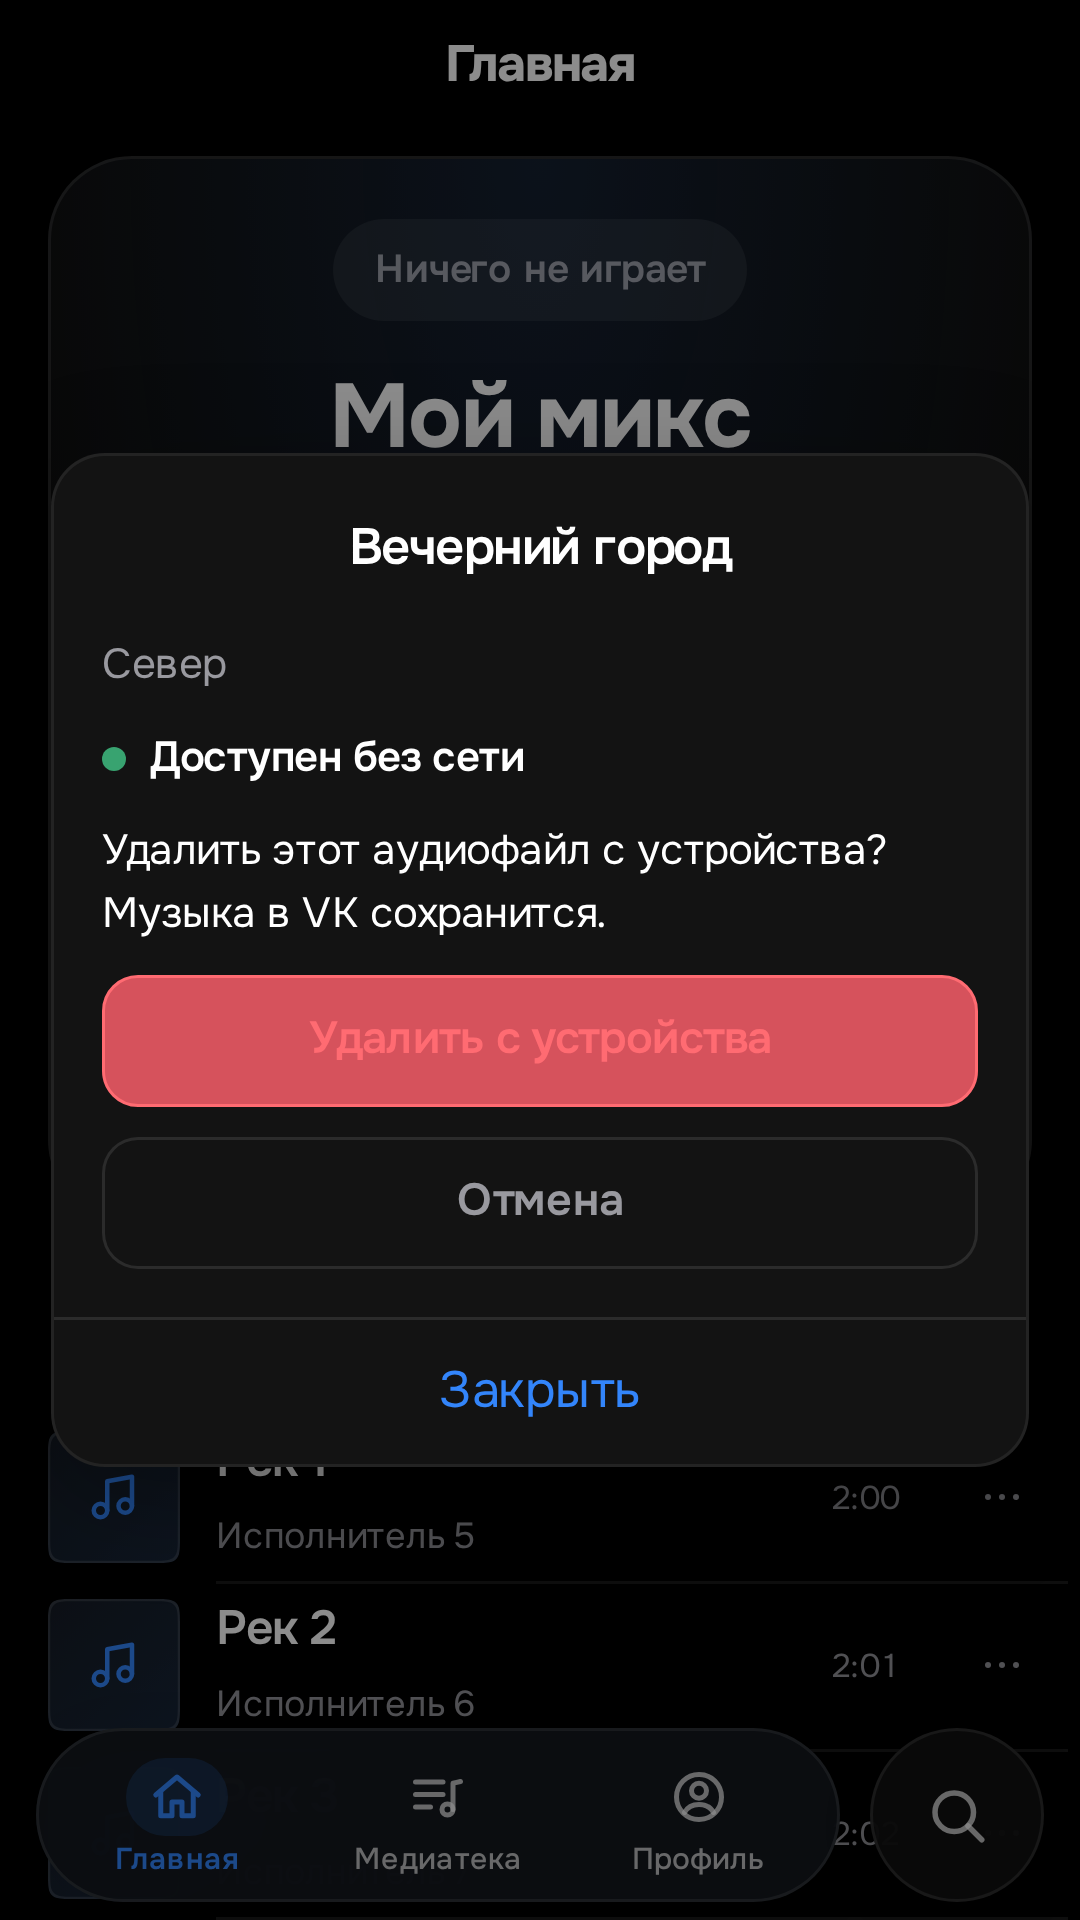
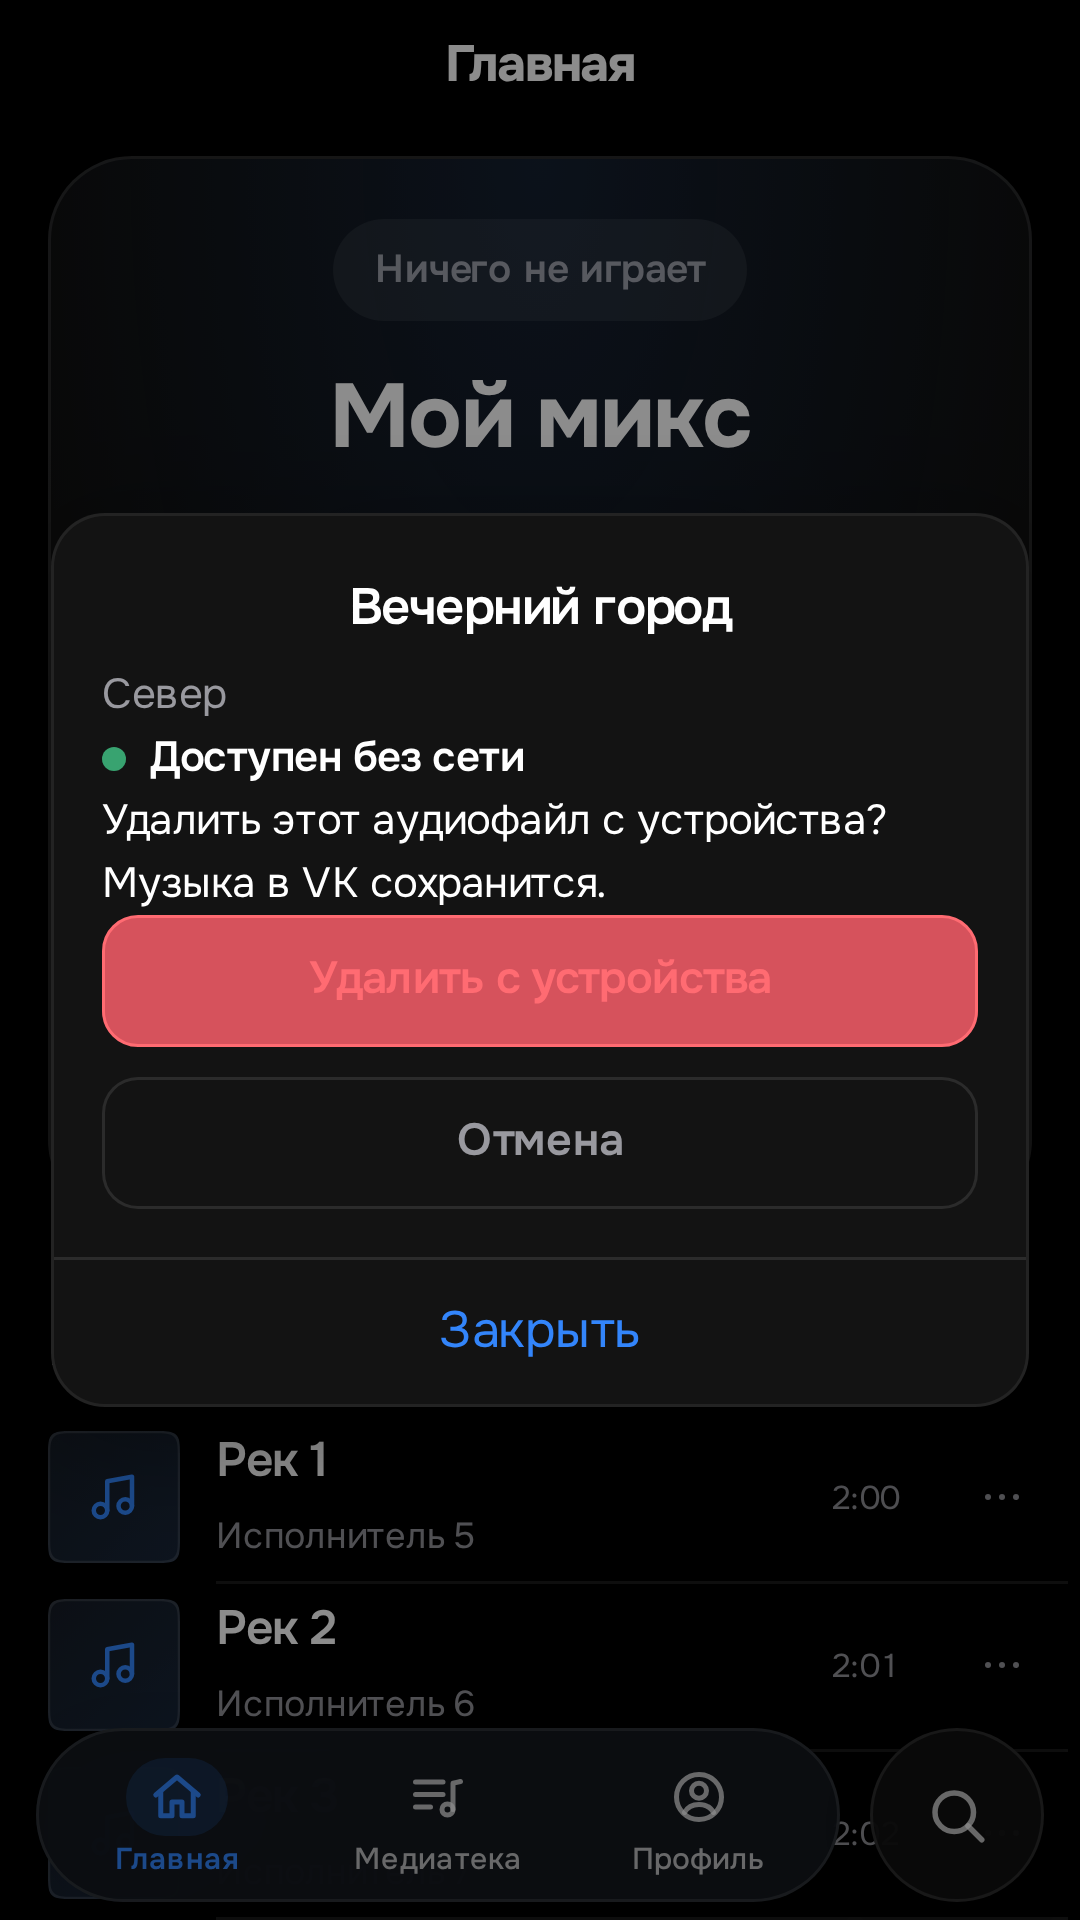
Android: хранить скачанную копию отдельно от синхронизации плейлистов

diff --git a/ui/js/download-details.js b/ui/js/download-details.js
@@ -1,11 +1,12 @@
 import { api, trackKey } from './api.js';
 import { h, formatTime } from './dom.js';
 import { t, addStrings, errorText } from './i18n.js';
-import { accountId } from './personal.js';
+import { syncRunning } from './playlist-sync.js';
+import { accountId, readPersonal, writePersonal } from './personal.js';
 import { store, own, subscribe } from './store.js';
 import { formatSize, refreshDownloads } from './downloads.js';
 import { isAndroid } from './mobile/layout.js';
-addStrings({ru:{'file.details':'Об аудиофайле','file.available':'Доступен без сети','file.missing':'Файл недоступен. Его можно скачать заново из списка треков.','file.format':'Формат','file.size':'Размер','file.saved':'Сохранён','file.duration':'Длительность','file.close':'Закрыть','file.remove':'Удалить с устройства','file.confirm':'Удалить этот аудиофайл с устройства? Музыка в VK сохранится.','file.removed':'Файл удалён с устройства','file.cancel':'Отмена'},en:{'file.details':'Audio file details','file.available':'Available offline','file.missing':'The file is unavailable. You can download it again from the track list.','file.format':'Format','file.size':'Size','file.saved':'Saved','file.duration':'Duration','file.close':'Close','file.remove':'Remove from device','file.confirm':'Remove this audio file from the device? Your VK library will be kept.','file.removed':'File removed from device','file.cancel':'Cancel'}});
+addStrings({ru:{'file.details':'Об аудиофайле','file.available':'Доступен без сети','file.missing':'Файл недоступен. Его можно скачать заново из списка треков.','file.format':'Формат','file.size':'Размер','file.saved':'Сохранён','file.duration':'Длительность','file.close':'Закрыть','file.remove':'Удалить с устройства','file.confirm':'Удалить этот аудиофайл с устройства? Музыка в VK сохранится.','file.removed':'Файл удалён с устройства','file.cancel':'Отмена','file.keep':'Хранить отдельно','file.kept':'Файл сохранён отдельно от плейлистов','file.storage':'Хранение','file.manual':'Сохранён отдельно','file.local':'На устройстве','file.syncBusy':'Дождитесь завершения синхронизации'},en:{'file.details':'Audio file details','file.available':'Available offline','file.missing':'The file is unavailable. You can download it again from the track list.','file.format':'Format','file.size':'Size','file.saved':'Saved','file.duration':'Duration','file.close':'Close','file.remove':'Remove from device','file.confirm':'Remove this audio file from the device? Your VK library will be kept.','file.removed':'File removed from device','file.cancel':'Cancel','file.keep':'Keep separately','file.kept':'File kept separately from playlists','file.storage':'Storage','file.manual':'Kept separately','file.local':'On this device','file.syncBusy':'Wait for playlist sync to finish'}});
 export function createDownloadDetails({play,toast}) {
   let active=null;
   const current=op=>active===op && op.account===accountId() && store.session.signed_in;
@@ -35,6 +36,12 @@ export function createDownloadDetails({play,toast}) {
       const opened=await api.shareAudio(track,false);
       if(current(op) && !opened){op.info.available=false;op.render();}
     })});
+    const keep=h('button',{class:'btn file-keep',type:'button',text:t('file.keep'),onclick:()=>act(op,async()=>{
+      if(syncRunning() || !await check(op))return;
+      if(syncRunning()){toast(t('file.syncBusy'));return;}
+      writePersonal('manualDownloads',[...new Set([...readPersonal('manualDownloads',[]),trackKey(track)])].slice(-20000));
+      toast(t('file.kept'));op.render();
+    })});
     const remove=h('button',{class:'btn danger-text file-remove',type:'button',text:t('file.remove'),onclick:()=>{op.confirming=true;op.render();}});
     const confirmText=h('p',{class:'file-confirm-text',text:t('file.confirm'),role:'alert',hidden:true});
     const cancelRemove=h('button',{class:'btn file-cancel-remove',type:'button',text:t('file.cancel'),hidden:true,onclick:()=>{op.confirming=false;op.render();}});
@@ -45,9 +52,9 @@ export function createDownloadDetails({play,toast}) {
       close();toast(t('file.removed'));await refreshDownloads();
     })});
     const done=h('button',{class:'btn',type:'button',text:t('file.close'),onclick:close});
-    op.dialog=h('dialog',{class:'dialog file-details-dialog','aria-label':t('file.details')},h('div',{class:'dialog-form'},
+    op.dialog=h('dialog',{class:'dialog file-details-dialog','aria-label':t('file.details')},h('div',{class:'dialog-form'},h('div',{class:'file-details-body'},
       h('h2',{text:track.title}),h('p',{class:'file-artist',text:track.artist}),status,facts,
-      confirmText,h('div',{class:'file-actions'},playButton,share,remove,confirmRemove,cancelRemove),h('div',{class:'dialog-actions'},done)));
+      confirmText,h('div',{class:'file-actions'},playButton,share,keep,remove,confirmRemove,cancelRemove)),h('div',{class:'dialog-actions'},done)));
     op.render=()=>{
       status.textContent=op.loading?t('loading'):t(op.info?.available?'file.available':'file.missing');
       status.dataset.available=String(op.info?.available===true);
@@ -55,15 +62,17 @@ export function createDownloadDetails({play,toast}) {
       remove.disabled=confirmRemove.disabled=cancelRemove.disabled=op.loading || op.busy;
       playButton.hidden=facts.hidden=!!op.confirming;share.hidden=!isAndroid() || !!op.confirming;
       remove.hidden=!!op.confirming;confirmRemove.hidden=cancelRemove.hidden=confirmText.hidden=!op.confirming;
+      const manual=readPersonal('manualDownloads',[]).includes(trackKey(track));
+      keep.hidden=manual || !!op.confirming;keep.disabled=op.loading || op.busy || !op.info?.available || syncRunning();keep.title=syncRunning()?t('file.syncBusy'):t('file.keep');
       const info=op.info;
       const saved=info?.added>0?new Date(info.added*1000):null;
       const date=saved && Number.isFinite(saved.getTime())?saved.toLocaleString():null;
-      facts.replaceChildren(...(info?[[t('file.format'),info.format],[t('file.duration'),formatTime(track.duration)],[t('file.size'),formatSize(info.bytes)],...(date?[[t('file.saved'),date]]:[])]:[]).map(([label,value])=>h('div',{},h('dt',{text:label}),h('dd',{text:value}))));
+      facts.replaceChildren(...(info?[[t('file.format'),info.format],[t('file.duration'),formatTime(track.duration)],[t('file.size'),formatSize(info.bytes)],[t('file.storage'),t(manual?'file.manual':'file.local')],...(date?[[t('file.saved'),date]]:[])]:[]).map(([label,value])=>h('div',{},h('dt',{text:label}),h('dd',{text:value}))));
     };
     op.dialog.addEventListener('cancel',event=>{event.preventDefault();close();});
     document.body.classList.add('overlay-open');document.body.append(op.dialog);op.render();op.dialog.showModal();done.focus();
     check(op).catch(error=>{if(current(op)){op.loading=false;op.render();toast(errorText(error),{error:true});}});
   }
-  own(close);subscribe('session',()=>{if(active && !current(active))close();});subscribe('view',close);
+  own(close);subscribe('personal.manualDownloads',()=>{if(active)active.render();});subscribe('playlistSync',()=>{if(active)active.render();});subscribe('session',()=>{if(active && !current(active))close();});subscribe('view',close);
   return {open,close};
 }

diff --git a/ui-tests/download-details.test.js b/ui-tests/download-details.test.js
@@ -2,7 +2,7 @@ import test from 'node:test';
 import assert from 'node:assert/strict';
 import { openApp } from './harness.js';
 async function setup(config={}) {
- const app=await openApp({phone:true,config:{signedIn:true,libraryTotal:5,...config}});
+ const app=await openApp({phone:'small',config:{signedIn:true,libraryTotal:5,...config}});
  app.page.setDefaultTimeout(10000);
  await app.page.waitForSelector('.row');
  await app.page.waitForFunction(()=>!!document.querySelector('.account .name')?.textContent);
@@ -25,6 +25,7 @@ test('audio file details show native facts and cached-only sharing never downloa
  const app=await setup();try{
   const {page}=app;await open(page);
   assert.match(await page.locator('.file-facts').textContent(),/AAC/);
+  assert.equal(await page.getByRole('button',{name:'Закрыть',exact:true}).evaluate(el=>el.getBoundingClientRect().bottom<=innerHeight),true);
   assert.match(await page.locator('.file-facts').textContent(),/4 МБ/);
   assert.equal(await page.evaluate(()=>window.__mock.count('play_tracks')),0);
   await page.locator('.file-share').click();
@@ -69,5 +70,34 @@ test('audio file details discard late metadata after account change',async()=>{
   await page.waitForTimeout(600);
   assert.equal(await page.locator('.file-details-dialog').count(),0);
   assert.deepEqual(app.problems,[]);
+ }finally{await app.close();}
+});
+test('keeping a downloaded copy separately changes only account-local retention metadata',async()=>{
+ const app=await setup();try{
+  const {page}=app;await open(page);
+  await page.locator('.file-keep').click();
+  await page.waitForFunction(()=>document.querySelector('.file-facts')?.textContent.includes('Сохранён отдельно'));
+  assert.deepEqual(await page.evaluate(()=>JSON.parse(localStorage.getItem('pm.personal.7.manualDownloads'))),['7_1']);
+  assert.equal(await page.evaluate(()=>window.__mock.count('download')),0);
+  assert.equal(await page.locator('.file-keep').isVisible(),false);
+ }finally{await app.close();}
+});
+test('sync cleanup preserves a copy marked manual between two deletion calls',async()=>{
+ const app=await setup({playlistTrackIds:[1,2,3]});try{
+  const result=await app.page.evaluate(async()=>{
+   const {setPlaylistSync,syncPlaylists}=await import('/js/playlist-sync.js');
+   const {writePersonal}=await import('/js/personal.js');
+   const {api}=await import('/js/api.js');
+   const {downloads}=await import('/js/downloads.js');
+   window.__mock.state.downloads=[];
+   const playlist={owner_id:7,playlist_id:55,title:'Sync',count:3};
+   setPlaylistSync(playlist,true);await syncPlaylists();
+   writePersonal('syncRemoveObsolete',true);window.__mock.config.playlistTrackIds=[3];
+   const remove=api.removeDownload;
+   api.removeDownload=async key=>{if(key==='7_1')writePersonal('manualDownloads',['7_2']);return remove(key);};
+   try{await syncPlaylists();}finally{api.removeDownload=remove;}
+   return downloads().tracks.map(track=>track.track_id).sort();
+  });
+  assert.deepEqual(result,[2,3]);
  }finally{await app.close();}
 });

diff --git a/ui/js/playlist-sync.js b/ui/js/playlist-sync.js
@@ -90,8 +90,18 @@ export async function syncPlaylists() {
             .every((other) => Array.isArray(other.wanted))
         ) {
           const {manual,protectedKeys}=protection;
+          let observedManual=null;
           for (const key of rule.owned) {
             if (id !== accountId() || !isSynced(rule.playlist)) break;
+            // A manual save may happen while an earlier removal is awaiting IPC.
+            // Reparse only when this account's stored list actually changed.
+            const raw=localStorage.getItem(`pm.personal.${id}.manualDownloads`);
+            if(raw!==observedManual){
+              const retained=JSON.parse(raw ?? "[]");
+              if(!Array.isArray(retained))throw new Error(ft("Не удалось синхронизировать"));
+              for(const saved of retained)manual.add(saved);
+              observedManual=raw;
+            }
             if (!wanted.has(key) && !manual.has(key) && !protectedKeys.has(key))
               await api.removeDownload(key);
           }

diff --git a/ui/css/discovery.css b/ui/css/discovery.css
@@ -128,5 +128,7 @@ html[data-layout="phone"] .saved-lyrics-pane { padding: 0 var(--gutter) 24px; }
 .file-actions { display: grid; gap: 10px; }
 .file-actions .btn { min-height: 44px; }
 .file-confirm-text { line-height: 1.5; }
-.file-details-dialog .dialog-form { max-height: 80dvh; overflow: auto; }
+.file-details-dialog .dialog-form { max-height: 80dvh; overflow: hidden; }
+.file-details-body { min-height: 0; overflow-y: auto; }
+.file-details-dialog .dialog-actions { flex-shrink: 0; }
 .file-details-dialog .file-actions .file-confirm-remove { color: var(--danger); border-color: var(--danger); }

diff --git a/ui/css/material.css b/ui/css/material.css
@@ -233,3 +233,4 @@ html[data-platform="android"][data-style="material"][data-layout="phone"] .tabs 
 
 html[data-layout="phone"] .dialog.saved-lyrics-reader { background: var(--surface); width: min(640px, calc(100vw - 32px)); }
 html[data-layout="phone"] .dialog.file-details-dialog { background: var(--surface); width: min(480px, calc(100vw - 32px)); }
+.file-details-dialog .dialog-actions .btn:focus-visible { outline-offset: -4px; box-shadow: none; }

diff --git a/docs/android.md b/docs/android.md
@@ -406,3 +406,11 @@ native call and disables itself if that copy disappears. Removal requires a sepa
 the same window, removes only the downloaded copy and refreshes Downloads. Account changes/navigation
 close the window and invalidate delayed metadata responses. The availability check is a snapshot; a file
 can still change after checking.
+
+Downloaded file details also offer **Keep separately**, an account-local manual retention flag. This
+requires an existing native-verified file and does not download another copy. The action is disabled while
+playlist sync is running. Details distinguish a separately kept
+copy from a regular local file. Sync cleanup rechecks changed manual retention between deletion IPC
+calls, preserving a copy marked manually while an earlier deletion was in flight. Explicit removal
+and Clear downloads still remove files at the user's request. The footer stays visible while long
+file details scroll independently on a small screen.
